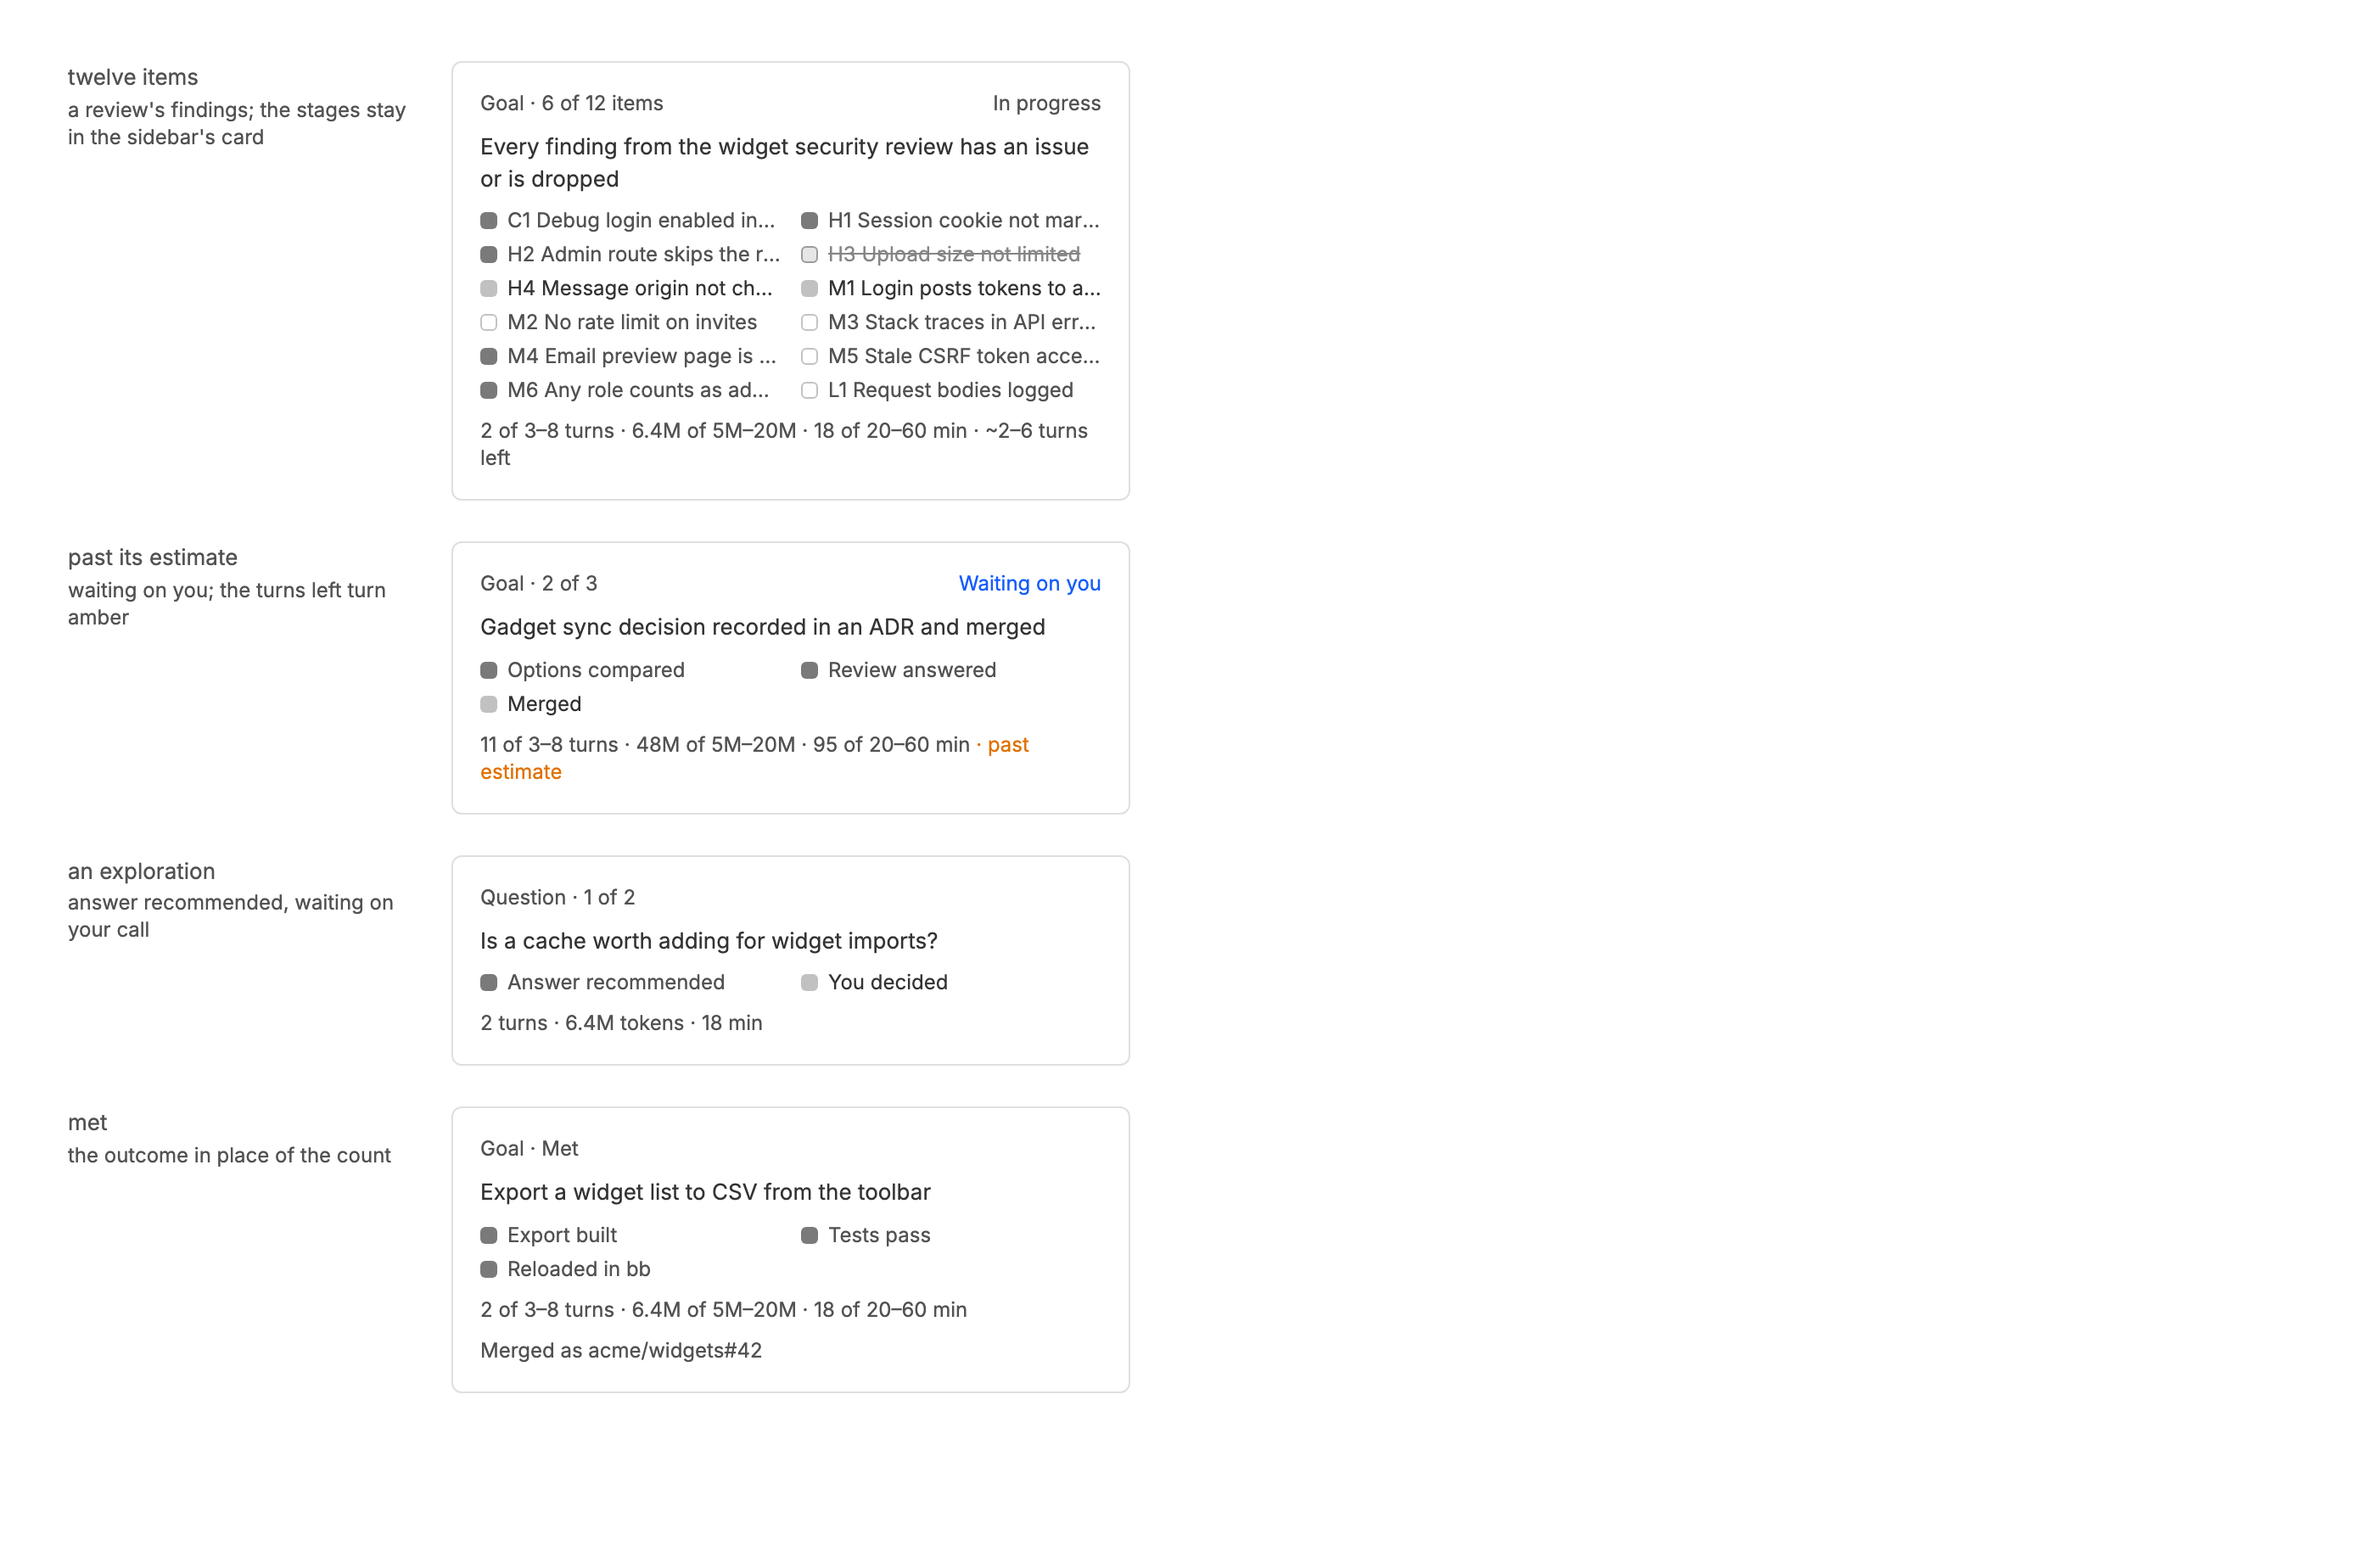
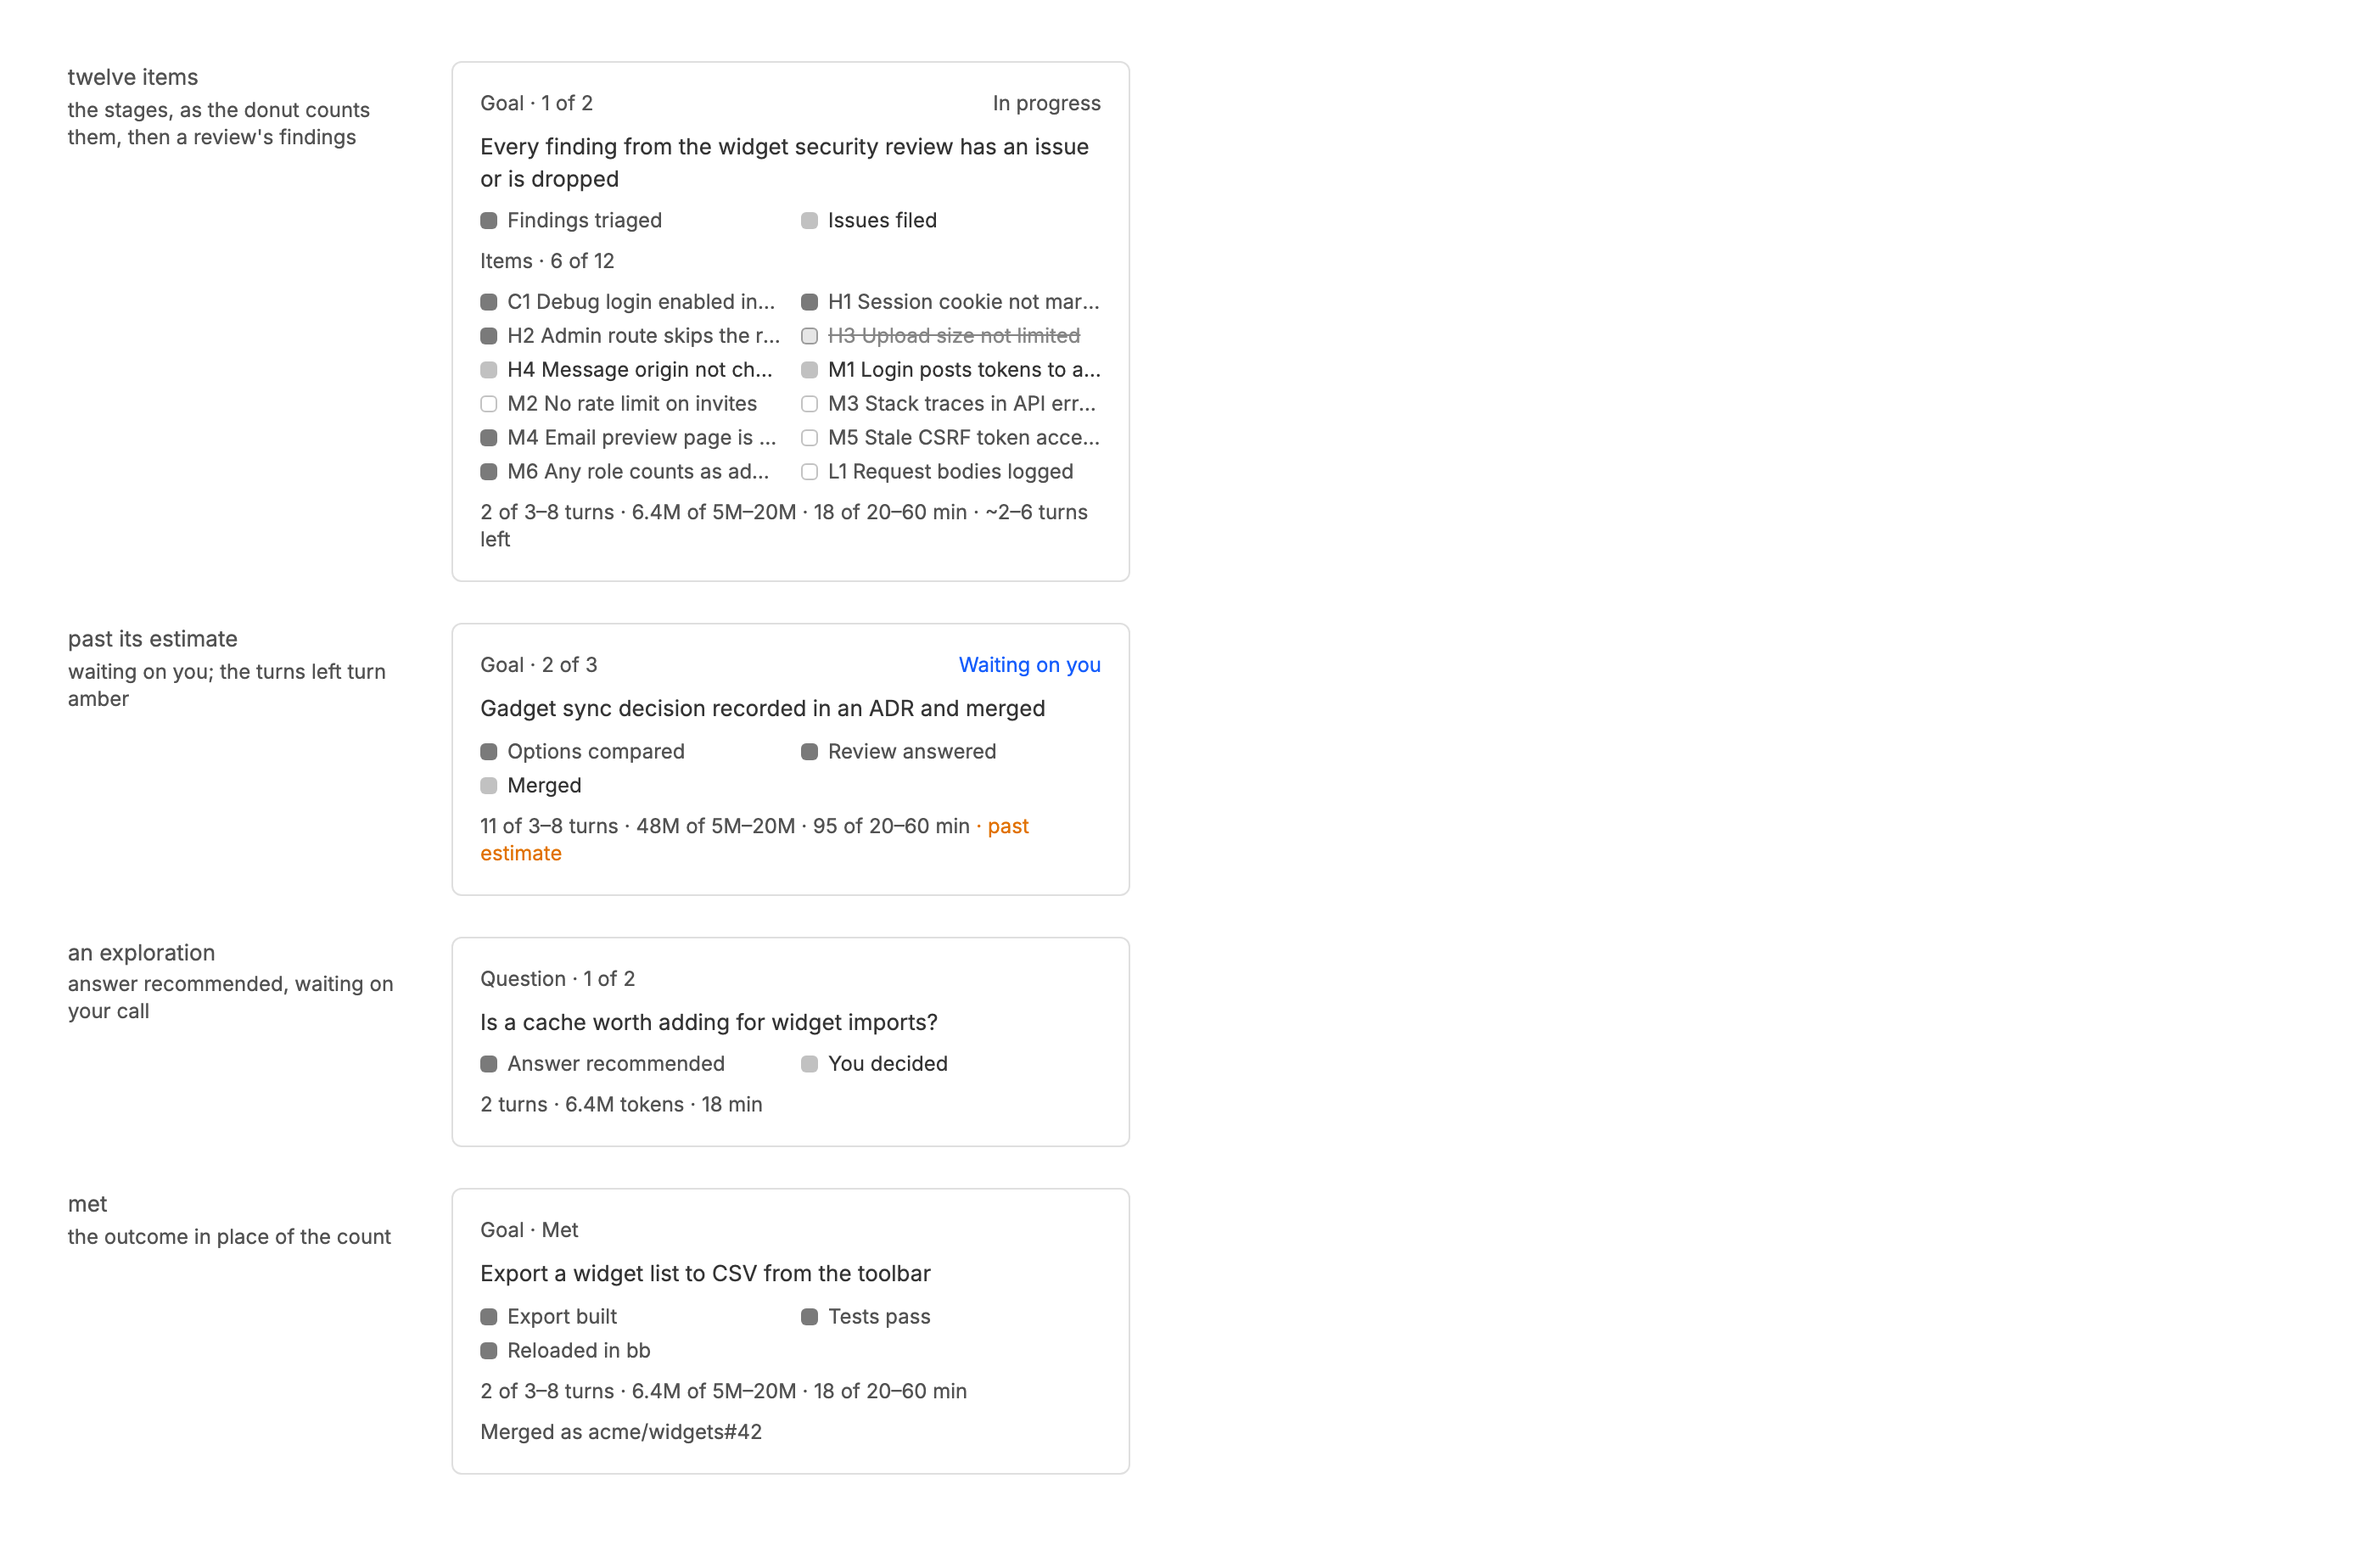
40681c0 Tokenomics: the summary lists the goal's stages, as the donut counts them, then its items
danielbachhuber/bb-plugins@40681c08c217999f4d4579c5551c99c58960efc3

Captured with uncommitted changes in the bb-plugins checkout.

diff --git a/tokenomics/README.md b/tokenomics/README.md
@@ -16,7 +16,7 @@ The token button in the thread header with the goal's donut before its sparkline
 
 ### Compact goal states
 
-The goal at the top of the summary: with twelve items in place of the stages, waiting on you past its estimate, an exploration, and once met.
+The goal at the top of the summary: with its stages and then twelve items, waiting on you past its estimate, an exploration, and once met.
 
 ![Compact goal states](goals--compact-goal-states.png)
 
